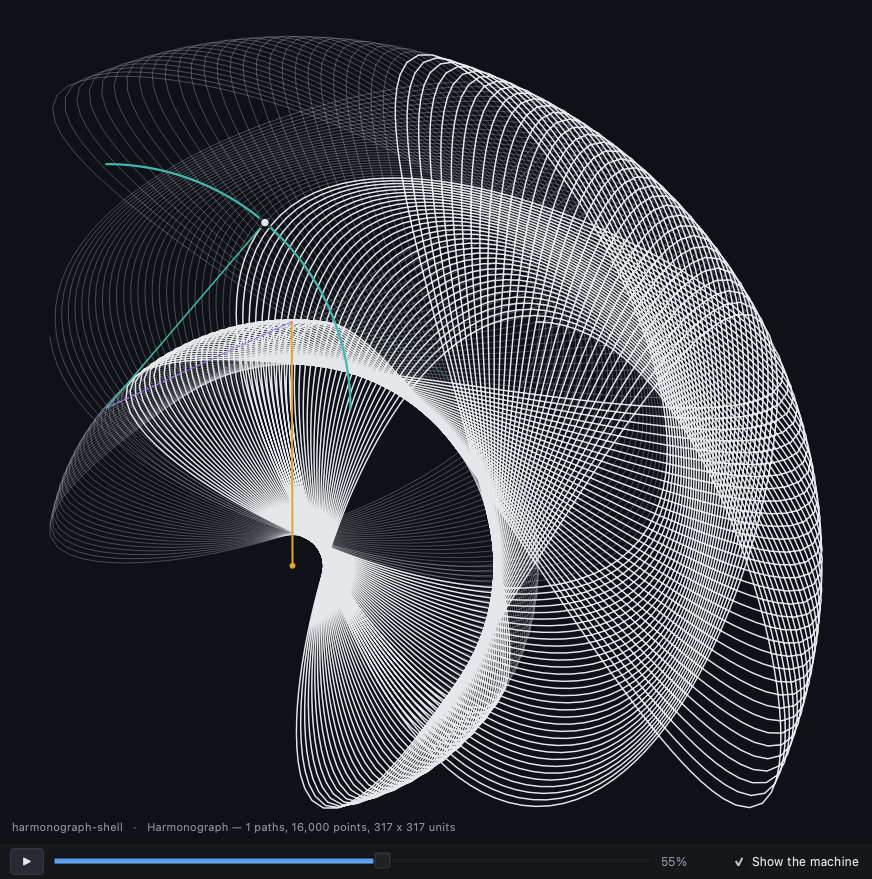
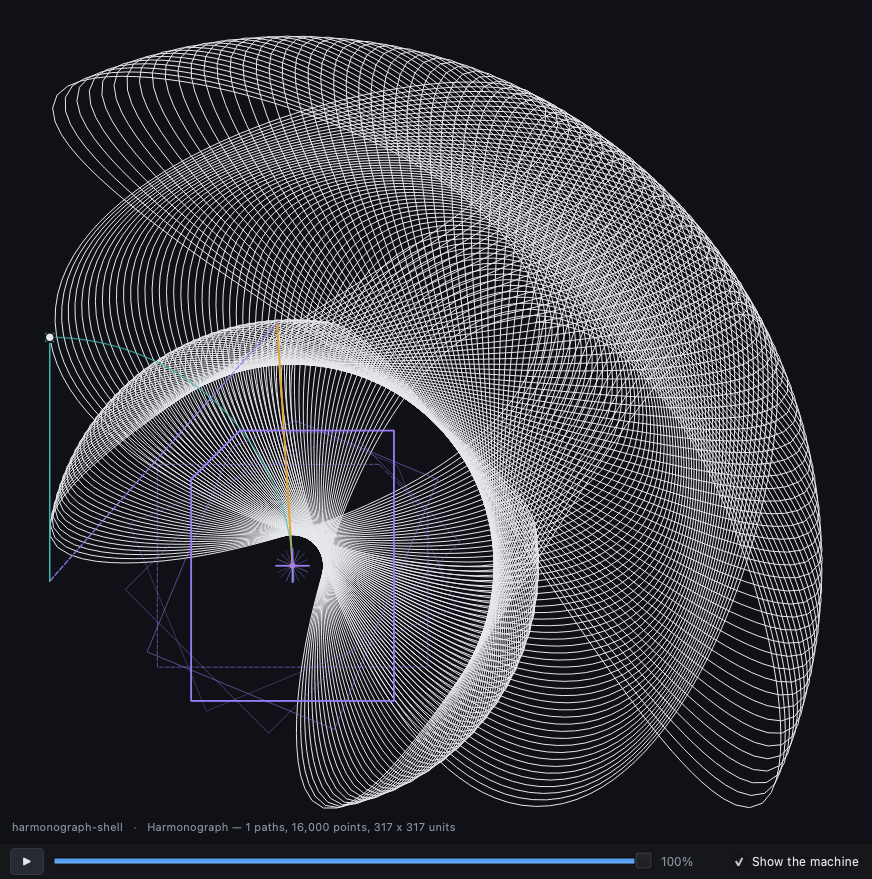
Finishing passes switch on when you edit them; the paper frame shows its turn
The finishing boxes were checkable group boxes with a title tick too small
to see, and an edit inside an unticked box was thrown away — so clip, tile
and the rest looked unusable. Now the switch is styled as one ("Use clip",
violet when on, the box's border follows), and editing any number inside a
pass switches it on.

The table move's frame was a square, and a square turned a quarter is the
same square. It is a dog-eared sheet with a centre cross now, drawn as a
trail — ghosts from the start of the draw to the current moment, the last
one solid — so a still picture shows the paper turning, growing or bending.

Changed region(s): [[0.031, 0.0307, 0.9599, 0.9215], [0.4335, 0.9522, 0.7431, 0.9829], [0.1548, 0.6758, 0.1858, 0.7065]]

diff --git a/spiro/ui/render_view.py b/spiro/ui/render_view.py
@@ -59,17 +59,26 @@ def _polygon(points):
 
 
 def square_frame(centre, side, per_side=FRAME_POINTS):
-    """The outline of a square, ``per_side`` points a side, starting at the
-    top-right corner and going round — the first point is the corner that
-    carries the orientation mark."""
-    h = side / 2.0
-    corners = [centre + complex(h, h), centre + complex(-h, h),
-               centre + complex(-h, -h), centre + complex(h, -h)]
+    """The outline of a sheet of paper: a 4:3 rectangle with its top-right
+    corner folded off, ``per_side`` points a side so a bend shows as a
+    curve. A square turned a quarter is the same square; this is not."""
+    w, h = side / 2.0, side * 0.375
+    ear = side * 0.18
+    corners = [centre + complex(w - ear, h), centre + complex(-w, h),
+               centre + complex(-w, -h), centre + complex(w, -h),
+               centre + complex(w, h - ear)]
     out = []
     for a, b in zip(corners, corners[1:] + corners[:1]):
         for k in range(per_side):
             out.append(a + (b - a) * (k / per_side))
     return np.array(out, dtype=complex)
+
+
+def frame_cross(centre, side):
+    """A small cross at the paper's centre: two short strokes."""
+    r = side * 0.06
+    return (np.array([centre - r, centre + r]),
+            np.array([centre - 1j * r, centre + 1j * r]))
 
 
 def retimed(drawing, k, i):
@@ -96,19 +105,39 @@ def scope_base(drawing, kinds, scopes, k, i):
     return (complex(drawing.stages[first - 1][i]) if first else 0j), n
 
 
+def moved(drawing, kinds, scopes, k, i, points, base, n):
+    """``points`` as table move ``k`` leaves them at sample ``i``."""
+    module = drawing.modules[k]
+    t = np.full(points.shape, retimed(drawing, k, i)[0])
+    if n == "all":
+        out = module.transform(points, t)
+    else:
+        out = base + module.transform(points - base, t)
+    return np.asarray(out, dtype=complex)
+
+
 def table_frame(drawing, kinds, scopes, k, i):
     """The paper before and after table move ``k`` at sample ``i``:
     ``(before, after)``, two complex arrays of the frame outline."""
-    module = drawing.modules[k]
     side = FRAME_SIDE * max(drawing.width, drawing.height)
     base, n = scope_base(drawing, kinds, scopes, k, i)
     before = square_frame(base, side)
-    t = np.full(before.shape, retimed(drawing, k, i)[0])
-    if n == "all":
-        after = module.transform(before, t)
-    else:
-        after = base + module.transform(before - base, t)
-    return before, np.asarray(after, dtype=complex)
+    return before, moved(drawing, kinds, scopes, k, i, before, base, n)
+
+
+def table_trail(drawing, kinds, scopes, k, i, count=5):
+    """The paper at ``count`` moments from the start of the draw to sample
+    ``i`` — the move as a motion trail, for a still picture of it."""
+    side = FRAME_SIDE * max(drawing.width, drawing.height)
+    out = []
+    for j in np.linspace(0, i, count).astype(int):
+        base, n = scope_base(drawing, kinds, scopes, k, int(j))
+        frame = square_frame(base, side)
+        cross = frame_cross(base, side)
+        out.append((moved(drawing, kinds, scopes, k, int(j), frame, base, n),
+                    tuple(moved(drawing, kinds, scopes, k, int(j), c, base, n)
+                          for c in cross)))
+    return out
 
 
 def contribution(drawing, k):
@@ -405,8 +434,10 @@ class RenderView(QWidget):
         painter.drawEllipse(end, 4.5, 4.5)
 
     def _paint_table(self, painter, k, i):
-        """The paper before and after table move ``k`` at sample ``i``."""
-        before, after = table_frame(self.drawing, self.kinds, self.scopes, k, i)
+        """The paper under table move ``k``: where it started, ghosts of it
+        on the way, and where the move has it at sample ``i``."""
+        before, _ = table_frame(self.drawing, self.kinds, self.scopes, k, i)
+        trail = table_trail(self.drawing, self.kinds, self.scopes, k, i)
         to_px = self.transform()
         color = QColor(glyphs.KIND_COLORS["transform"])
         painter.save()
@@ -414,25 +445,24 @@ class RenderView(QWidget):
         painter.setTransform(to_px)
         painter.setBrush(Qt.NoBrush)
         dim = QColor(color)
-        dim.setAlpha(90)
+        dim.setAlpha(110)
         pen = QPen(dim, 1.0)
         pen.setCosmetic(True)
         pen.setStyle(Qt.DashLine)
         painter.setPen(pen)
-        painter.drawPolygon(_polygon(before))
-        pen = QPen(color, 1.6)
-        pen.setCosmetic(True)
-        painter.setPen(pen)
-        painter.drawPolygon(_polygon(after))
+        painter.drawPolygon(_polygon(before))          # the paper before any move
+        count = len(trail)
+        for index, (frame, cross) in enumerate(trail):
+            last = index == count - 1
+            ghost = QColor(color)
+            ghost.setAlpha(255 if last else 50 + 110 * index // max(count - 1, 1))
+            pen = QPen(ghost, 1.8 if last else 1.0)
+            pen.setCosmetic(True)
+            painter.setPen(pen)
+            painter.drawPolygon(_polygon(frame))
+            for stroke in cross:
+                painter.drawPolyline(_polygon(stroke))
         painter.restore()
-        # the corner that says which way round the paper is
-        for pts, alpha in ((before, 90), (after, 255)):
-            mark = QColor(color)
-            mark.setAlpha(alpha)
-            painter.setBrush(mark)
-            painter.setPen(Qt.NoPen)
-            p = to_px.map(QPointF(pts[0].real, pts[0].imag))
-            painter.drawEllipse(p, 3.5, 3.5)
 
     # -- interaction ----------------------------------------------------------------- #
 

diff --git a/tests/eyetest_gui.py b/tests/eyetest_gui.py
@@ -165,6 +165,11 @@ window.design.strip.select(2)
 window.design._select_step(2)
 pump(100)
 snap(window.render_panel, "joe-shell-arc-path-selected")
+window.design.strip.select(1)
+window.design._select_step(1)
+window.render_panel.scrubber.setValue(count - 1)
+pump(100)
+snap(window.render_panel, "joe-shell-rotation-selected-end")
 window.design.strip.select(0)
 window.design._select_step(0)
 window.design.explain("freq2")
@@ -182,12 +187,20 @@ window.design._select_step(1)
 window.design.finishing_toggle.setChecked(True)
 pump(60)
 snap(window.design, "finishing-open")
-window.design.finishing.boxes["symmetry"].setChecked(True)
-window.design.finishing.editors["symmetry"]["n_fold"].setValue(5)
+window.design.finishing.editors["symmetry"]["n_fold"].setValue(5)   # no tick first
 rendered(window)
 pump(150)
 snap(window, "window-with-symmetry")
+window.design.finishing.editors["clip"]["radius"].setValue(120)
+rendered(window)
+pump(150)
+window.design.params_area.verticalScrollBar().setValue(
+    window.design.params_area.verticalScrollBar().maximum())
+pump(60)
+snap(window.design, "finishing-clip-switched-on-by-editing")
+snap(window, "window-symmetry-and-clip")
 window.design.finishing.boxes["symmetry"].setChecked(False)
+window.design.finishing.boxes["clip"].setChecked(False)
 window.design.finishing_toggle.setChecked(False)
 
 print("ideas:")

diff --git a/spiro/ui/finishing_panel.py b/spiro/ui/finishing_panel.py
@@ -41,10 +41,12 @@ class FinishingPanel(QWidget):
 
         for section in ORDER:
             spec = FINISHING_DEFS[section]
-            box = QGroupBox(spec["label"])
+            box = QGroupBox("Use %s" % spec["label"].lower())
             box.setCheckable(True)
             box.setChecked(False)
-            box.setToolTip(spec["desc"])
+            box.setObjectName("finishing")
+            box.setToolTip("%s — tick to switch it on; editing a number inside "
+                           "switches it on too" % spec["desc"])
             inner = QVBoxLayout(box)
             inner.setContentsMargins(8, 4, 8, 6)
             inner.setSpacing(3)
@@ -169,6 +171,14 @@ class FinishingPanel(QWidget):
     def _apply(self, *_args):
         if self._loading:
             return
+        # Editing a number inside a pass means you want the pass: switch
+        # its box on rather than throw the edit away.
+        sender = self.sender()
+        for section, editors in self.editors.items():
+            if sender in editors.values() and not self.boxes[section].isChecked():
+                self.boxes[section].blockSignals(True)
+                self.boxes[section].setChecked(True)
+                self.boxes[section].blockSignals(False)
         self._show_relevant()
         for section in ORDER:
             spec = FINISHING_DEFS[section]

diff --git a/spiro/ui/theme.py b/spiro/ui/theme.py
@@ -61,6 +61,11 @@ QGroupBox { border: 1px solid %(LINE)s; border-radius: 5px; margin-top: 14px;
             padding: 8px 8px 6px 8px; }
 QGroupBox::title { subcontrol-origin: margin; left: 8px; padding: 0 4px;
                    color: %(MUTED)s; font-weight: 600; }
+QGroupBox#finishing::title { color: %(TEXT)s; }
+QGroupBox#finishing::indicator { width: 15px; height: 15px; border: 1px solid %(MUTED)s;
+                                 border-radius: 3px; background: %(PANEL_HI)s; }
+QGroupBox#finishing::indicator:checked { background: %(ACCENT)s; border-color: %(ACCENT)s; }
+QGroupBox#finishing:checked { border-color: %(ACCENT_DIM)s; }
 QListWidget::item { padding: 4px 6px; border-radius: 3px; }
 QListWidget::item:selected { background: %(ACCENT_DIM)s; color: white; }
 QTabBar::tab { background: transparent; padding: 6px 14px; color: %(MUTED)s;

diff --git a/tests/test_window.py b/tests/test_window.py
@@ -506,8 +506,10 @@ for name in transforms:
     try:
         before, after = table_frame(window.drawing, kinds, scopes, 2, len(window.drawing.t_values) // 3)
         base = complex(window.drawing.stages[0][len(window.drawing.t_values) // 3])
+        centre = complex((before.real.min() + before.real.max()) / 2,
+                         (before.imag.min() + before.imag.max()) / 2)
         ok = (len(before) == len(after) and np.all(np.isfinite(after))
-              and abs(before.mean() - base) < 1e-6)
+              and abs(centre - base) < 1e-6)
     except Exception as exc:                       # noqa: BLE001
         ok = False
         print("    %s: %s" % (name, exc))
